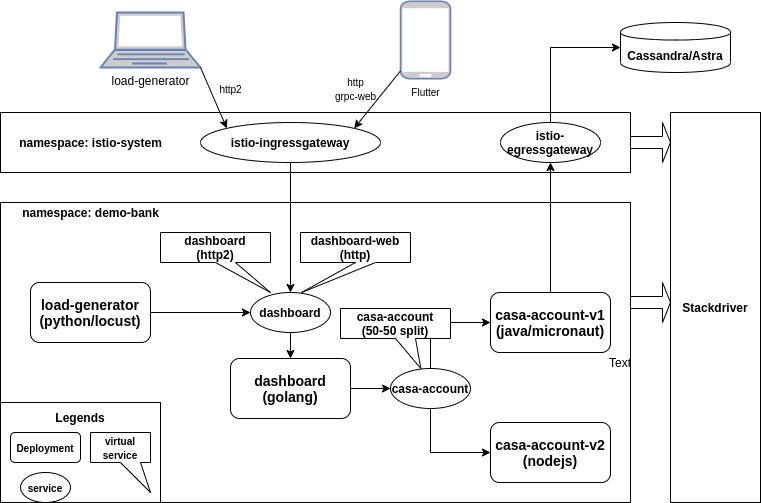
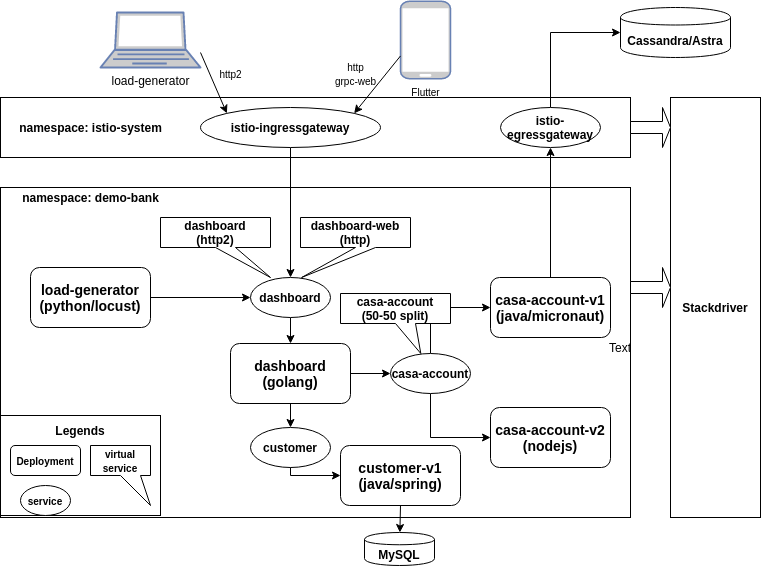
doc update

diff --git a/README.md b/README.md
@@ -19,7 +19,8 @@ This is a demo banking applicaiton built around modern technolgies. The key pill
 | ------------- |-------------|-------------| 
 | [protos](protos)    | protobuf | protobuf API definition used in all across the application. |
 | [dashboard](dashboard) | Go | dashboard microservice, calls casa-account services, either v1 or v2, controlled by [istio virtualservice](https://istio.io/latest/docs/reference/config/networking/virtual-service/) configuration      |
-| [casa-account-v1](casa-account-v1) | Java | casa account microservice built using [micronaut] framework. It reads account data stored in Cassandra and return the clients |
+| [customer-v1](customer-v1) | Java | customer microservice built using spring boot. It reads customer data stored in MySQL |
+| [casa-account-v1](casa-account-v1) | Java | casa account microservice built using [micronaut](https://micronaut.io/) framework. It reads account data stored in Cassandra |
 | [casa-account-v2](casa-account-v2) | nodejs | casa account microservice, only returns dummy data. |
 | [load-generator](load-generator) | python | uses [Locust](https://locust.io/) to generate API calls |
 | [testdata](testdata) | python | generates test data and write them to Cassandra |
